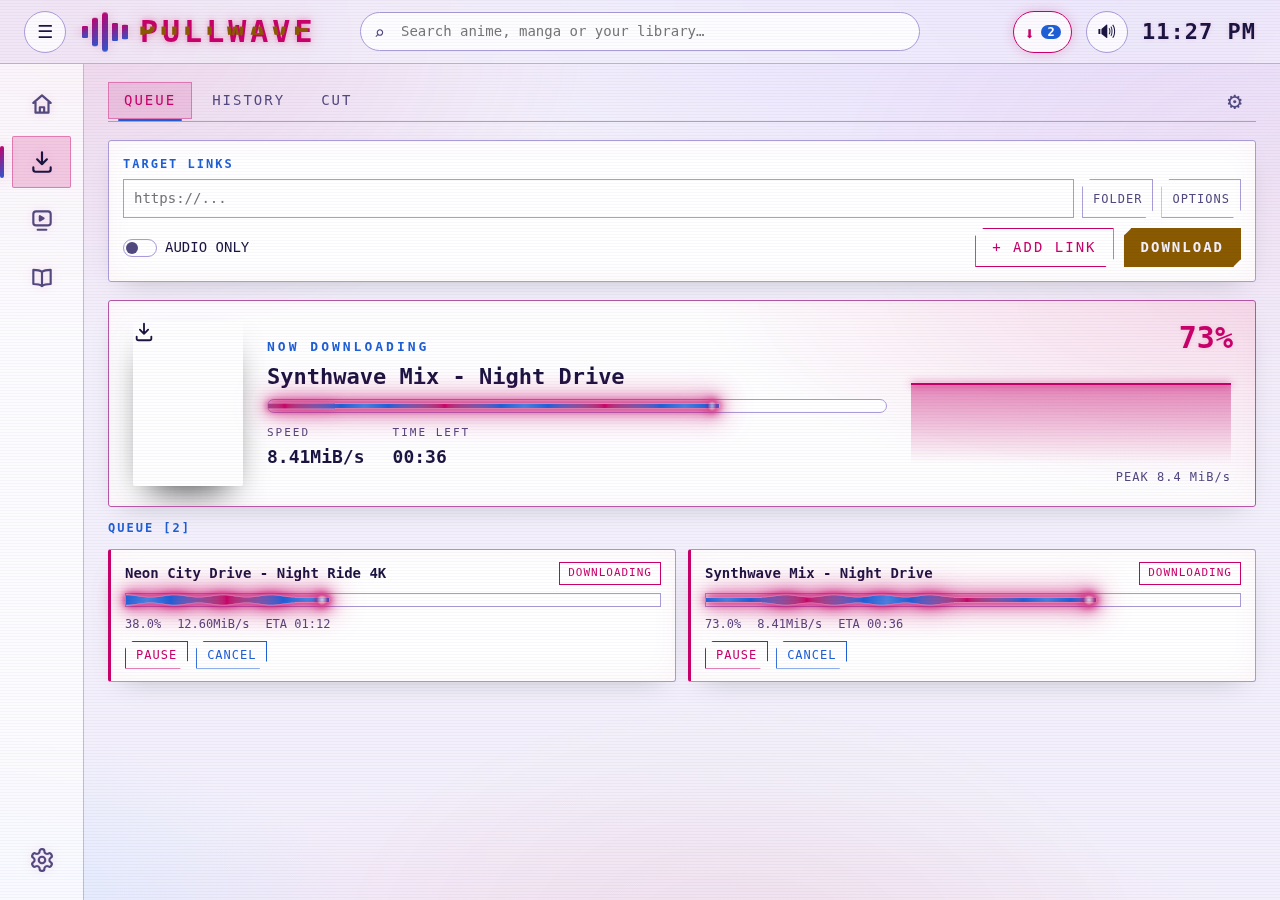
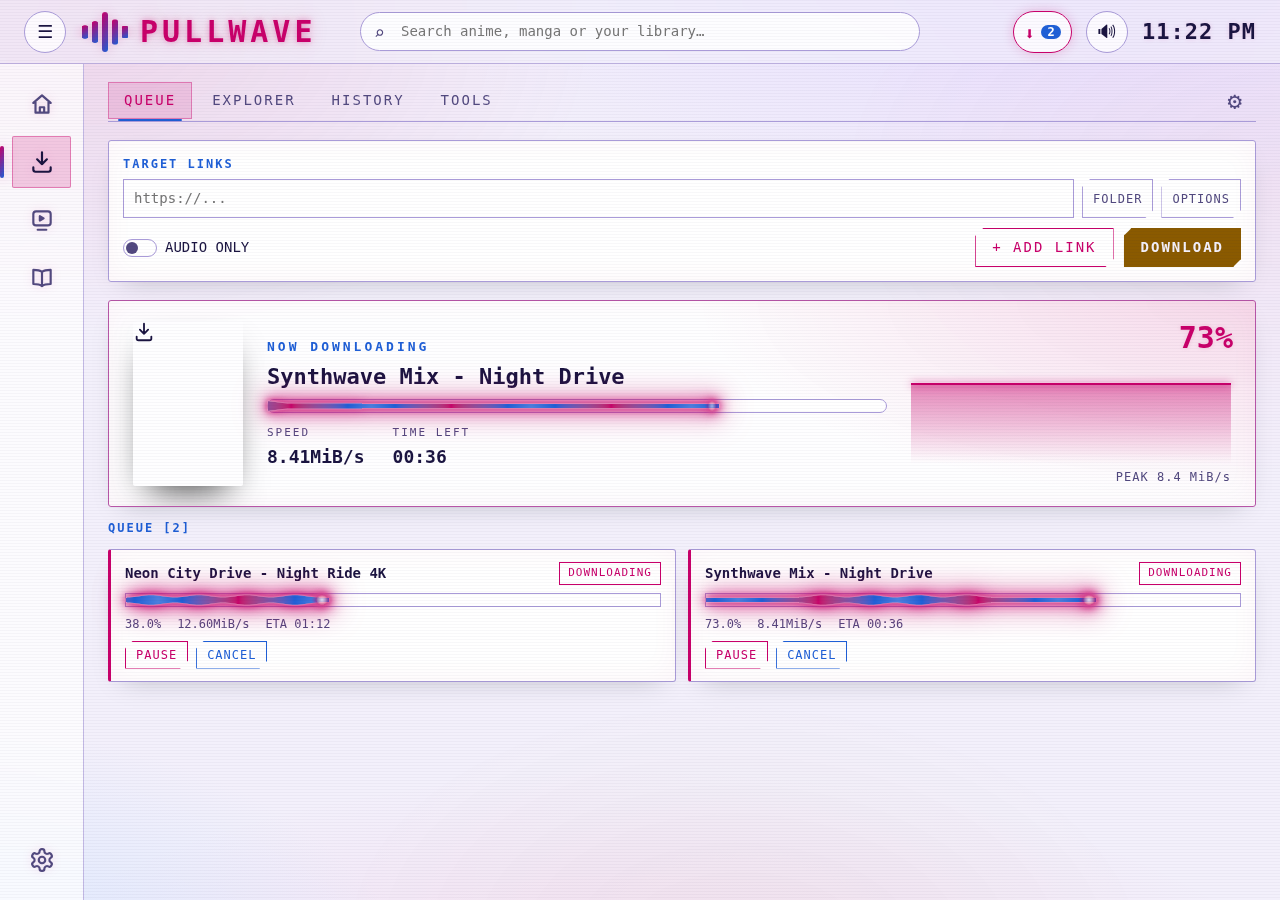
Update screenshots and record the release of 0.29.3 in the log

diff --git a/scripts/screenshots/video.ts b/scripts/screenshots/video.ts
@@ -1,4 +1,5 @@
 import { expect, type Page } from '@playwright/test';
+import { copyFileSync, mkdirSync } from 'node:fs';
 import { join } from 'node:path';
 import { VIDEO_TITLES } from './catalog';
 import { resize, snap, WINDOW, type Assets, type Shot } from './session';
@@ -66,10 +67,23 @@ export async function shootHistory(shot: Shot): Promise<void> {
     await snap(shot.page, 'neon-tokyo-history');
 }
 
+export async function shootExplorer(shot: Shot, assets: Assets): Promise<void> {
+    const { page, downloads } = shot;
+    mkdirSync(join(downloads, 'Highlights'), { recursive: true });
+    copyFileSync(assets.video, join(downloads, 'City Lights 4K.mp4'));
+    copyFileSync(assets.longVideo, join(downloads, 'Late Night Session.mp4'));
+    await openVideoDownloader(page);
+    await page.getByRole('navigation', { name: 'Video downloader' }).getByRole('button', { name: 'EXPLORER', exact: true }).click();
+    await expect(page.getByText('City Lights 4K.mp4')).toBeVisible({ timeout: 20000 });
+    await page.waitForTimeout(1500);
+    await snap(page, 'neon-tokyo-explorer');
+}
+
 export async function shootCut(shot: Shot): Promise<void> {
     const { page } = shot;
     await openVideoDownloader(page);
-    await page.getByRole('navigation', { name: 'Video downloader' }).getByRole('button', { name: 'CUT' }).click();
+    await page.getByRole('navigation', { name: 'Video downloader' }).getByRole('button', { name: 'TOOLS', exact: true }).click();
+    await page.getByRole('tab', { name: 'CUT' }).click();
     await resize(shot.app, page, WINDOW.width, WINDOW.height + 100);
     await page.getByRole('button', { name: 'CHOOSE FILE' }).click();
     await expect(page.getByTestId('cut-segment')).toHaveCount(1, { timeout: 20000 });
@@ -81,6 +95,29 @@ export async function shootCut(shot: Shot): Promise<void> {
     await page.waitForTimeout(1000);
     await snap(page, 'neon-tokyo-cut');
     await resize(shot.app, page, WINDOW.width, WINDOW.height);
+}
+
+export async function shootConvert(shot: Shot): Promise<void> {
+    const { page } = shot;
+    await openVideoDownloader(page);
+    await page.getByRole('navigation', { name: 'Video downloader' }).getByRole('button', { name: 'TOOLS', exact: true }).click();
+    await page.getByRole('tab', { name: 'CONVERT' }).click();
+    await page.getByRole('button', { name: 'CHOOSE VIDEOS' }).click();
+    await expect(page.getByTestId('convert-item')).toHaveCount(2, { timeout: 20000 });
+    await page.waitForTimeout(800);
+    await snap(page, 'neon-tokyo-convert');
+}
+
+export async function shootMerge(shot: Shot): Promise<void> {
+    const { page } = shot;
+    await openVideoDownloader(page);
+    await page.getByRole('navigation', { name: 'Video downloader' }).getByRole('button', { name: 'TOOLS', exact: true }).click();
+    await page.getByRole('tab', { name: 'MERGE' }).click();
+    await page.getByRole('button', { name: 'CHOOSE VIDEOS' }).click();
+    await expect(page.getByTestId('merge-item')).toHaveCount(2, { timeout: 20000 });
+    await page.getByLabel('Output file name').fill('Weekend Compilation');
+    await page.waitForTimeout(800);
+    await snap(page, 'neon-tokyo-merge');
 }
 
 export async function shootVideoSettings(shot: Shot): Promise<void> {

diff --git a/scripts/screenshots/screenshots.shots.ts b/scripts/screenshots/screenshots.shots.ts
@@ -1,10 +1,11 @@
 import { test } from '@playwright/test';
 import { rmSync } from 'node:fs';
+import { delimiter } from 'node:path';
 import { fillLibrary, shootEpisodes, shootLibrary, shootPlayer, shootSchedule, shootSearch, shootSeries } from './anime';
 import { shootHome, shootHomeUltrawide } from './home';
 import { fillMangaLibrary, shootMangaLibrary, shootMangaPage, shootMangaReader, shootMangaSearch, shootMangaSettings, shootMangaTwoPages } from './manga';
 import { launch, prepareAssets, releaseAssets, type Assets } from './session';
-import { historyOf, shootCut, shootError, shootHistory, shootQueue, shootVideoSettings } from './video';
+import { historyOf, shootConvert, shootCut, shootError, shootExplorer, shootHistory, shootMerge, shootQueue, shootVideoSettings } from './video';
 
 const FAKE_FOLDERS = { downloadDir: '/home/user/Videos', animeDownloadDir: '/home/user/Anime', mangaDirectory: '/home/user/Manga' };
 
@@ -25,6 +26,7 @@ test('the video downloader, the anime and the manga, and the home screen, in the
     const shot = await launch(assets, { history: historyOf, settings: { mangaDirectory: DEMO_MANGA_FOLDER } });
     await shootError(shot);
     await shootQueue(shot, 'neon-tokyo-downloads');
+    await shootExplorer(shot, assets);
     await shootHistory(shot);
     await fillLibrary(shot.page);
     await shootSchedule(shot);
@@ -45,9 +47,19 @@ test('the video downloader, the anime and the manga, and the home screen, in the
     await shot.app.close();
 });
 
-test('the cutter and the settings, with the folders of an imaginary home', async () => {
-    const shot = await launch(assets, { env: { PULLWAVE_CUT_FILE: assets.longVideo }, settings: FAKE_FOLDERS });
+test('the tools and the settings, with the folders of an imaginary home', async () => {
+    const videos = [assets.video, assets.longVideo].join(delimiter);
+    const shot = await launch(assets, {
+        env: {
+            PULLWAVE_CUT_FILE: assets.longVideo,
+            PULLWAVE_CONVERT_FILES: videos,
+            PULLWAVE_MERGE_FILES: videos
+        },
+        settings: FAKE_FOLDERS
+    });
     await shootCut(shot);
+    await shootConvert(shot);
+    await shootMerge(shot);
     await shootVideoSettings(shot);
     await shot.app.close();
 });

diff --git a/scripts/screenshots/media.ts b/scripts/screenshots/media.ts
@@ -34,7 +34,7 @@ export function makeCover(directory: string, style: CoverStyle): string {
     const file = join(directory, `${fileNameOf(style.title)}.png`);
     const lines = wrapped(style.title);
     const texts = lines.map((line, index) => {
-        const safe = line.replaceAll("'", '');
+        const safe = line.replaceAll("'", '').replaceAll(':', '\\:');
         return `drawtext=fontfile=${FONT}:text='${safe}':fontsize=32:fontcolor=white:shadowcolor=black@0.6:shadowx=2:shadowy=2:x=(w-text_w)/2:y=${String(270 + index * 42)}`;
     });
     ffmpeg([

diff --git a/docs/PROGRESS.md b/docs/PROGRESS.md
@@ -1,6 +1,6 @@
 # Progress
 
-Current version: **0.29.2** (released, see `LOG.md`; the entries below were last brought up to date at 0.25.17 and the releases after it are recorded in `LOG.md` and `DECISIONS.md`). Last updated: 2026-11-09 · **v0.25.17 published** (UPDATES and HISTORY as the cards of the library and ONGOING before COMPLETE; a subtitle already translated is skipped in a batch and replaced in the player; the buttons of the subtitles in a window opened from the gear of the player: D-163 to D-165), on top of **v0.25.16 published** (the stream with sound, the next streamed episode by itself, fullscreen kept between episodes, videos hidden behind a picture repaired), **v0.25.15 published** (the file of an episode with the audio joined told to the app) and **v0.25.14 published** (the audio of the episodes: the audio track joined to the picture, the check of the audio, DOWNLOAD AGAIN, CHECK DOWNLOADED EPISODES, database version 13), on top of **v0.25.13 published** (the anime search reads the pages after the first, with a limit of 120 results; the chips COMPLETE and ONGOING in the anime library; the last watched goes by the episode watched, database version 12; the page of a series without a cover of its own; the head of the bar in the manga reader; the time under the mouse on the timeline at the right place on a magnified interface: D-157 to D-162), on top of **v0.25.12 published** (the layouts for an ultrawide 3440x1440 screen and for a 1080x1920 screen turned to stand up, the seal of what was watched or read, and the manga reader with two pages side by side, a double click in the middle for the fullscreen, corners to turn the page, settings that close with a click outside, three pages loaded ahead and the settings of each manga: D-153 to D-156), on top of **v0.25.11 published** (seven more neon themes, the manga server starts when the app opens, the numbers of the home, the bars of the reader and of the player and the stamp of the reader fixed: D-149 to D-152), on top of **v0.25.10 published** (the design improved, D-147; the folder of the other section in the disk space, D-146), on top of **the disk space shows the folder of the other section, reads faster and waits for a migration (D-146)**, on top of **v0.25.9 published** (disk space of the anime and manga folders in their settings: D-145), on top of **disk space of the anime and manga folders shown in their settings (D-145)**, on top of **screenshots made again in the console design by `npm run screenshots` (D-144)**, on top of **v0.25.8 published** (no known vulnerable dependency and a hook that blocks pushes to main while there is one, Node 24, the carousel no longer scrolls sideways, the anime that ani-cli picks on its own is shown with its own title: D-142, D-143) on top of **v0.25.7 published** (the anime downloads get MANAGE, PAUSE ALL, RETRY FAILED and tries by themselves, like the manga ones: D-141) on top of **v0.25.6 published** (the mangas of the adult sources are hidden everywhere while the +18 setting is off, and hiding a group is gone: D-140) on top of **v0.25.5 published** (the MANAGE window to pause, resume and cancel the manga downloads by manga, the button that restarts the programs, CLEAR FAILED, the folder field and DOWNLOADS (N) lined up, the theme Sakura Dark: D-139) on top of **v0.25.4 published** (the posters of Kitsu are shown, an anime is also looked up without its subtitle, and a series takes the cover of its first season that has one) on top of **v0.25.3 published** (the manga reader no longer stays on "Loading page N…": the picture of a page waits in the place of its page) on top of **v0.25.2 published** (with OpenAI only gpt-transcribe, the audio cut at its pauses and each piece sent with the name of the series and what was said before it, the translation told the lines come from speech recognition: D-138) on top of **v0.25.1 published** (the next episode by itself, the manga reader in fullscreen, orders kept, HOME for an empty library, covers asked for together and from Kitsu and MangaDex, fixes of the reader, gpt-transcribe told as a model that gives no times: D-134 to D-137) on top of **v0.25.0 published** (the console interface: home screen with highlights, menu on the left, libraries with highlights and filters; the picture, CLEAR and the play of each part in the cutter; the end-to-end tests side by side: D-126 to D-133) on top of **v0.24.2 published** (the anime with the same title told apart by the id of the source, the timeline of the player as the bar of a download: D-124, D-125) on top of **v0.24.1 published** (the timeline of the player is easier to see in every theme: D-123) on top of **v0.24.0 published** (the cutter of the video downloader, the window with the details of an error, one language for the manga section, the look for new episodes every 3 hours, the player controls floating in every theme, the map of the progress bars: D-121, D-122) on top of **v0.23.0 published** (the look for new episodes leaves out the anime whose releases are over, learned from AniList and correctable by the user, and does not wait between anime: D-119, D-120) on top of **v0.22.3 published** (the look for new episodes of the anime every 6 hours: D-118) on top of **v0.22.2 published** (the look for new episodes of the anime once a day, with the time of the last look kept: D-117) on top of **v0.22.1 published** (the button that looks for new episodes or chapters is blocked while a look goes on and says how far it is and which one it asks about: D-116) on top of **v0.22.0 published** (the anime library looks for new episodes by itself, the tab UPDATES, two options to look and to download what is found, the next order in the window of ADD TO LIBRARY, no more look-up of the schedule in the source by itself: D-114, D-115) on top of **v0.21.13 published** (the page of a manga keeps the chapters of the library that the source no longer lists: D-113) on top of **v0.21.12 published** (the chapters of a manga listed from the lowest number up: D-112) on top of **v0.21.11 published** (seasons as cards, the screen of a season of an anime, chapters of a manga as cards, the page that scrolls everywhere: D-111) on top of **v0.21.10 published** (a window before every removal, clear, cancel and reset; loading blocks in the reader; covers of the seasons; the wave of the download bars; searches that clear: D-110) on top of **v0.21.9 published** (the zones between chapters of the reader name the chapter of the neighbour season: D-109) on top of **v0.21.8 published** (matches of the search in the tabs of the manga library, next and previous chapter or episode across seasons, results cleared when a search is erased: D-108) on top of **v0.21.7 published** (manga chapters that lack pages are finished as incomplete and their pages can be downloaded again; live HLS streams recorded by the app, several segments at a time: D-106 and D-107) on top of **v0.21.6 published** (the back and forward buttons of the mouse keep the scroll of each page, covers of anime asked for again once an hour and shown in the screens of an anime: D-105) on top of **v0.21.5 published** (pause and cancel of the manga and anime downloads fixed, manga limits fixed at 3 sources × 3 chapters, PAUSE ALL that holds the queue: D-103 and D-104) on top of **v0.21.4 published** (programs downloaded by the app instead of shipped, D-099 to D-102; manga limit, PAUSE ALL, sources and language filter) on top of **v0.21.3 published** (SEARCH tab, anime-style library cards, fixed manga folder, HentaiRead pages: D-088 to D-094), on top of **v0.21.2 published** (a DOWNLOAD button in each chapter of the library, CONTINUE READING on the last page read, the chapter that switches while scrolling, covers of Manga18.Club: D-084 to D-087), on top of **v0.21.1 published** (fixes of the manga section: progress by scroll, search of sources, clickable technical errors, hidden groups, DOWNLOAD SEASON, gliding bars, FlareSolverr that does not kill the helper of another copy; Find stream removed: D-080 to D-083), on top of **v0.21.0 published** (the manga section, second round of its fixes, the Find stream feature removed: D-071 to D-080), on top of **v0.20.0 published** (translation of subtitles with a language model, creation of the subtitle from the audio with OpenAI or Gemini, the window with the two languages and the steps: D-062 to D-065), on top of **v0.19.0 published** (the library as the place to add and download anime, the window of ADD TO LIBRARY, the availability of the schedule in the source, the tab to open on, DOWNLOAD SEASON: D-059 and D-060), on top of **v0.18.0 published** (schedule tab with covers, pause and resume, every language of the subtitles in the stream: D-053 to D-057), on top of **v0.17.0 published** (loading mark, time under the mouse, loaded part of the timeline and a minute of buffer for the stream: D-052), on top of v0.16.0 (settings panel in the player and color of the subtitles: D-051), on top of v0.15.0 (rows and cards that open by a click, CHECK SUBTITLES with translated names, notices for 5 seconds, bigger gear, the wave only on the watched part in fullscreen: D-048 and D-049), on top of v0.14.0 (player controls hide in fullscreen, side buttons of the mouse, histories inside each section, settings by context: D-046 and D-047) and v0.13.1 (settings in even columns, support only up to 1920x1080: D-045) and v0.13.0 (MIGRATE FOLDER, anime only inside the anime folder, notice and no card on completion, one download at a time: D-044) and v0.12.0 (series and seasons, layout for every window size, every anime a series: D-041 to D-043) at `github.com/monothread/pullwave` (the anime player, subtitles per episode, a folder per episode and a library that can be rebuilt; see D-040), on top of v0.10.0 (the anime section on Windows).
+Current version: **0.29.3** (released, see `LOG.md`; the entries below were last brought up to date at 0.25.17 and the releases after it are recorded in `LOG.md` and `DECISIONS.md`). Last updated: 2026-11-09 · **v0.25.17 published** (UPDATES and HISTORY as the cards of the library and ONGOING before COMPLETE; a subtitle already translated is skipped in a batch and replaced in the player; the buttons of the subtitles in a window opened from the gear of the player: D-163 to D-165), on top of **v0.25.16 published** (the stream with sound, the next streamed episode by itself, fullscreen kept between episodes, videos hidden behind a picture repaired), **v0.25.15 published** (the file of an episode with the audio joined told to the app) and **v0.25.14 published** (the audio of the episodes: the audio track joined to the picture, the check of the audio, DOWNLOAD AGAIN, CHECK DOWNLOADED EPISODES, database version 13), on top of **v0.25.13 published** (the anime search reads the pages after the first, with a limit of 120 results; the chips COMPLETE and ONGOING in the anime library; the last watched goes by the episode watched, database version 12; the page of a series without a cover of its own; the head of the bar in the manga reader; the time under the mouse on the timeline at the right place on a magnified interface: D-157 to D-162), on top of **v0.25.12 published** (the layouts for an ultrawide 3440x1440 screen and for a 1080x1920 screen turned to stand up, the seal of what was watched or read, and the manga reader with two pages side by side, a double click in the middle for the fullscreen, corners to turn the page, settings that close with a click outside, three pages loaded ahead and the settings of each manga: D-153 to D-156), on top of **v0.25.11 published** (seven more neon themes, the manga server starts when the app opens, the numbers of the home, the bars of the reader and of the player and the stamp of the reader fixed: D-149 to D-152), on top of **v0.25.10 published** (the design improved, D-147; the folder of the other section in the disk space, D-146), on top of **the disk space shows the folder of the other section, reads faster and waits for a migration (D-146)**, on top of **v0.25.9 published** (disk space of the anime and manga folders in their settings: D-145), on top of **disk space of the anime and manga folders shown in their settings (D-145)**, on top of **screenshots made again in the console design by `npm run screenshots` (D-144)**, on top of **v0.25.8 published** (no known vulnerable dependency and a hook that blocks pushes to main while there is one, Node 24, the carousel no longer scrolls sideways, the anime that ani-cli picks on its own is shown with its own title: D-142, D-143) on top of **v0.25.7 published** (the anime downloads get MANAGE, PAUSE ALL, RETRY FAILED and tries by themselves, like the manga ones: D-141) on top of **v0.25.6 published** (the mangas of the adult sources are hidden everywhere while the +18 setting is off, and hiding a group is gone: D-140) on top of **v0.25.5 published** (the MANAGE window to pause, resume and cancel the manga downloads by manga, the button that restarts the programs, CLEAR FAILED, the folder field and DOWNLOADS (N) lined up, the theme Sakura Dark: D-139) on top of **v0.25.4 published** (the posters of Kitsu are shown, an anime is also looked up without its subtitle, and a series takes the cover of its first season that has one) on top of **v0.25.3 published** (the manga reader no longer stays on "Loading page N…": the picture of a page waits in the place of its page) on top of **v0.25.2 published** (with OpenAI only gpt-transcribe, the audio cut at its pauses and each piece sent with the name of the series and what was said before it, the translation told the lines come from speech recognition: D-138) on top of **v0.25.1 published** (the next episode by itself, the manga reader in fullscreen, orders kept, HOME for an empty library, covers asked for together and from Kitsu and MangaDex, fixes of the reader, gpt-transcribe told as a model that gives no times: D-134 to D-137) on top of **v0.25.0 published** (the console interface: home screen with highlights, menu on the left, libraries with highlights and filters; the picture, CLEAR and the play of each part in the cutter; the end-to-end tests side by side: D-126 to D-133) on top of **v0.24.2 published** (the anime with the same title told apart by the id of the source, the timeline of the player as the bar of a download: D-124, D-125) on top of **v0.24.1 published** (the timeline of the player is easier to see in every theme: D-123) on top of **v0.24.0 published** (the cutter of the video downloader, the window with the details of an error, one language for the manga section, the look for new episodes every 3 hours, the player controls floating in every theme, the map of the progress bars: D-121, D-122) on top of **v0.23.0 published** (the look for new episodes leaves out the anime whose releases are over, learned from AniList and correctable by the user, and does not wait between anime: D-119, D-120) on top of **v0.22.3 published** (the look for new episodes of the anime every 6 hours: D-118) on top of **v0.22.2 published** (the look for new episodes of the anime once a day, with the time of the last look kept: D-117) on top of **v0.22.1 published** (the button that looks for new episodes or chapters is blocked while a look goes on and says how far it is and which one it asks about: D-116) on top of **v0.22.0 published** (the anime library looks for new episodes by itself, the tab UPDATES, two options to look and to download what is found, the next order in the window of ADD TO LIBRARY, no more look-up of the schedule in the source by itself: D-114, D-115) on top of **v0.21.13 published** (the page of a manga keeps the chapters of the library that the source no longer lists: D-113) on top of **v0.21.12 published** (the chapters of a manga listed from the lowest number up: D-112) on top of **v0.21.11 published** (seasons as cards, the screen of a season of an anime, chapters of a manga as cards, the page that scrolls everywhere: D-111) on top of **v0.21.10 published** (a window before every removal, clear, cancel and reset; loading blocks in the reader; covers of the seasons; the wave of the download bars; searches that clear: D-110) on top of **v0.21.9 published** (the zones between chapters of the reader name the chapter of the neighbour season: D-109) on top of **v0.21.8 published** (matches of the search in the tabs of the manga library, next and previous chapter or episode across seasons, results cleared when a search is erased: D-108) on top of **v0.21.7 published** (manga chapters that lack pages are finished as incomplete and their pages can be downloaded again; live HLS streams recorded by the app, several segments at a time: D-106 and D-107) on top of **v0.21.6 published** (the back and forward buttons of the mouse keep the scroll of each page, covers of anime asked for again once an hour and shown in the screens of an anime: D-105) on top of **v0.21.5 published** (pause and cancel of the manga and anime downloads fixed, manga limits fixed at 3 sources × 3 chapters, PAUSE ALL that holds the queue: D-103 and D-104) on top of **v0.21.4 published** (programs downloaded by the app instead of shipped, D-099 to D-102; manga limit, PAUSE ALL, sources and language filter) on top of **v0.21.3 published** (SEARCH tab, anime-style library cards, fixed manga folder, HentaiRead pages: D-088 to D-094), on top of **v0.21.2 published** (a DOWNLOAD button in each chapter of the library, CONTINUE READING on the last page read, the chapter that switches while scrolling, covers of Manga18.Club: D-084 to D-087), on top of **v0.21.1 published** (fixes of the manga section: progress by scroll, search of sources, clickable technical errors, hidden groups, DOWNLOAD SEASON, gliding bars, FlareSolverr that does not kill the helper of another copy; Find stream removed: D-080 to D-083), on top of **v0.21.0 published** (the manga section, second round of its fixes, the Find stream feature removed: D-071 to D-080), on top of **v0.20.0 published** (translation of subtitles with a language model, creation of the subtitle from the audio with OpenAI or Gemini, the window with the two languages and the steps: D-062 to D-065), on top of **v0.19.0 published** (the library as the place to add and download anime, the window of ADD TO LIBRARY, the availability of the schedule in the source, the tab to open on, DOWNLOAD SEASON: D-059 and D-060), on top of **v0.18.0 published** (schedule tab with covers, pause and resume, every language of the subtitles in the stream: D-053 to D-057), on top of **v0.17.0 published** (loading mark, time under the mouse, loaded part of the timeline and a minute of buffer for the stream: D-052), on top of v0.16.0 (settings panel in the player and color of the subtitles: D-051), on top of v0.15.0 (rows and cards that open by a click, CHECK SUBTITLES with translated names, notices for 5 seconds, bigger gear, the wave only on the watched part in fullscreen: D-048 and D-049), on top of v0.14.0 (player controls hide in fullscreen, side buttons of the mouse, histories inside each section, settings by context: D-046 and D-047) and v0.13.1 (settings in even columns, support only up to 1920x1080: D-045) and v0.13.0 (MIGRATE FOLDER, anime only inside the anime folder, notice and no card on completion, one download at a time: D-044) and v0.12.0 (series and seasons, layout for every window size, every anime a series: D-041 to D-043) at `github.com/monothread/pullwave` (the anime player, subtitles per episode, a folder per episode and a library that can be rebuilt; see D-040), on top of v0.10.0 (the anime section on Windows).
 
 | ID | Phase | Task | Depends on | Files | Status | Owner | Notes |
 |---|---|---|---|---|---|---|---|

diff --git a/docs/LOG.md b/docs/LOG.md
@@ -310,3 +310,4 @@
 - Released 0.29.0 (tag `v0.29.0` = `189483a64f0bc9c4466f1d07e30557d33c0c2317`): added the Media Explorer tab (filtered strictly to folders, videos, and audio files, cached FFmpeg video thumbnails over `pullwave-explorer://`, built-in media player with Previous/Next and FFmpeg fallback transcoding, direct card click to open/play, single `OPEN FOLDER` button next to the item count summary, quick `TO AUDIO`/`CUT` actions, and zoom-aware right-click context menu with confirmation dialog before trashing) and the Video-to-Audio Converter tab (single/batch conversion to `mp3`, `m4a`, `opus`, `flac`, `wav` with configurable output destination, per-file progress, non-audio skip, and cancellation) to Video Downloader, localized across all 5 languages (D-205, D-206). Pre-push audit passed with 0 vulnerabilities. Release Linux, then Release Windows, then the draft published with its notes on 2026-11-21; the Test Windows workflow was not run.
 - Released 0.29.1 (tag `v0.29.1` = `ace37ce59d4b8b6e6453aa986b94a99a7bcdcbd4`): persisted Media Explorer sort field (`sortBy`), sort direction (`sortDirection`), and view mode (`viewMode`) in `localStorage` (`pullwave.explorer.prefs`), and added a 30-minute TTL with periodic pruning, immediate cache eviction on file/folder rename or trash, and full thumbnail cache directory cleanup on startup and `will-quit`. Pre-push audit passed with 0 vulnerabilities. Release Linux, then Release Windows, then the draft published with its notes on 2026-11-21; the Test Windows workflow was not run.
 - Released 0.29.2 (tag `v0.29.2` = `7f6c060730747c7e8c1e783c3615cdc5b881a5b0`): confined the Media Explorer strictly to the configured downloads folder and its non-hidden subfolders (validated lexically and via `realpath`, with breadcrumbs starting at the downloads root and dotfiles permanently hidden), restricted folder trashing to 100% empty folders on disk while allowing folder renaming, and updated `SHOW FILE` in Queue, History, and Convert to open and highlight the file inside the Media Explorer tab (or display an error notice if the file no longer exists or lies outside the configured downloads folder). Pre-push audit passed with 0 vulnerabilities. Release Linux, then Release Windows, then the draft published with its notes on 2026-11-21; the Test Windows workflow was not run.
+- Released 0.29.3 (tag `v0.29.3` = `3957648648e92ab7d52f37c05eef13d3b2a839f3`): unified the Cut and Convert tabs into a single `TOOLS` tab (`MediaToolsPanel`) with an internal mode switcher (`CUT`, `CONVERT`, `MERGE`), reordered Video Downloader tabs to `QUEUE · EXPLORER · HISTORY · TOOLS · ⚙`, and added the ordered Video Merge mode (`src/shared/merge.ts`, `mergeArgs`, `mergeService`, `registerMergeHandlers`, `mergeStore`, `MergePanel`) supporting multiple videos (including duplicates), `↑`/`↓` ordering, editable output stem, container (`mp4`/`mkv`/`webm`) and output destination selection, and auto mode (strict stream copy when all video/audio/container/timebase/stream-order parameters match, or automatic re-encode normalization with silence synthesis otherwise), plus Explorer/Home integration across all 5 languages, updated documentation (D-207), and refreshed README screenshots (`neon-tokyo-explorer.png`, `neon-tokyo-cut.png`, `neon-tokyo-convert.png`, `neon-tokyo-merge.png`, and queue/home themes). Pre-push audit passed with 0 vulnerabilities. Release Linux, then Release Windows, then the draft published with its notes on 2026-11-21; the Test Windows workflow was not run.

diff --git a/README.md b/README.md
@@ -127,6 +127,8 @@ On ultrawide monitors (shown at **3440×1440**), the layout expands, scales clea
 Lists every finished and failed download with timestamp and a quick action to reveal the file in your file manager.
 
 ### Explorer
+![Video downloader media explorer](docs/screenshots/neon-tokyo-explorer.png)
+
 Browse your configured downloads folder directly inside Pullwave:
 - Confined to your configured **downloads directory** (and its subfolders) and shows **only folders, videos, and audio files** — non-media and hidden files are filtered out automatically, with search and type filters (**ALL**, **VIDEOS**, **AUDIO**), persistent sort and view preferences, breadcrumb navigation, **UP**, **REFRESH**, and a single **OPEN FOLDER** button next to the item count summary.
 - Video cards load on-demand FFmpeg thumbnails backed by a session disk cache with a 30-minute TTL.
@@ -134,7 +136,11 @@ Browse your configured downloads folder directly inside Pullwave:
 - Media cards include quick **TO AUDIO**, **MERGE**, and **CUT** actions; clicking **SHOW FILE** in the queue, history, converter, or merger reveals and highlights the file directly inside the Explorer tab; right-clicking a card or the background opens a context menu next to the cursor with **New folder**, **Rename** (preserving file extensions), **Show in folder**, **Convert to audio**, **Add to merge**, **Cut**, and **Move to trash** (for media files and completely empty folders, with a confirmation dialog).
 
 ### Tools (Cut, Convert & Merge)
-![Cut mode with two marked segments](docs/screenshots/neon-tokyo-cut.png)
+| Cut mode | Merge mode |
+|---|---|
+| ![Cut mode with two marked segments](docs/screenshots/neon-tokyo-cut.png) | ![Merge mode with ordered videos](docs/screenshots/neon-tokyo-merge.png) |
+
+![Convert mode with videos queued for audio extraction](docs/screenshots/neon-tokyo-convert.png)
 
 A unified **TOOLS** tab brings **CUT**, **CONVERT**, and **MERGE** together behind a mode switcher (preserving each tool's state and displaying an active indicator if another mode is running in the background):
 
